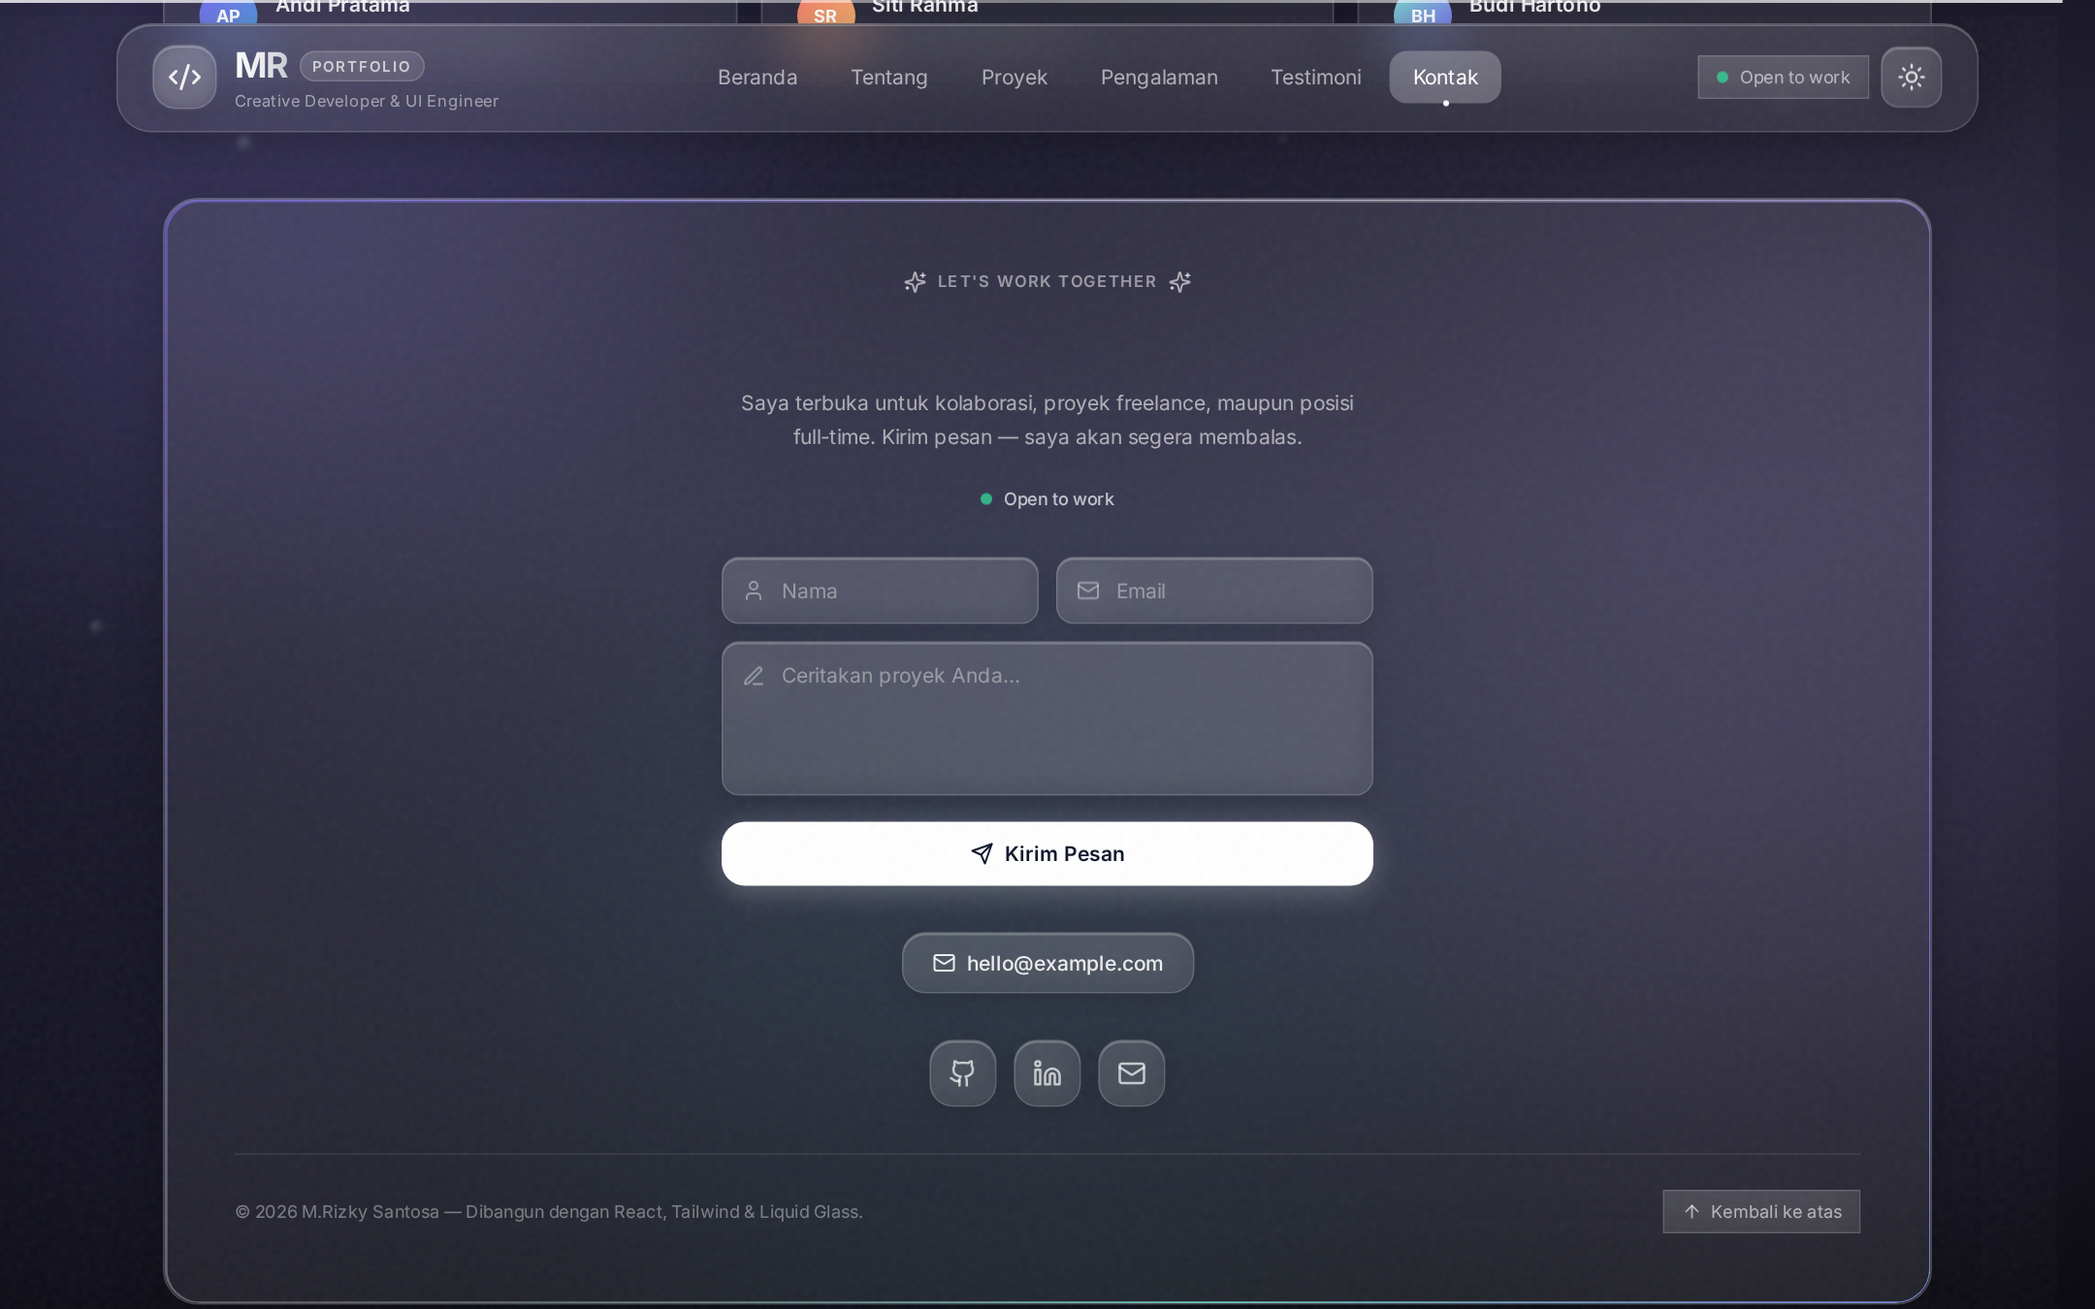
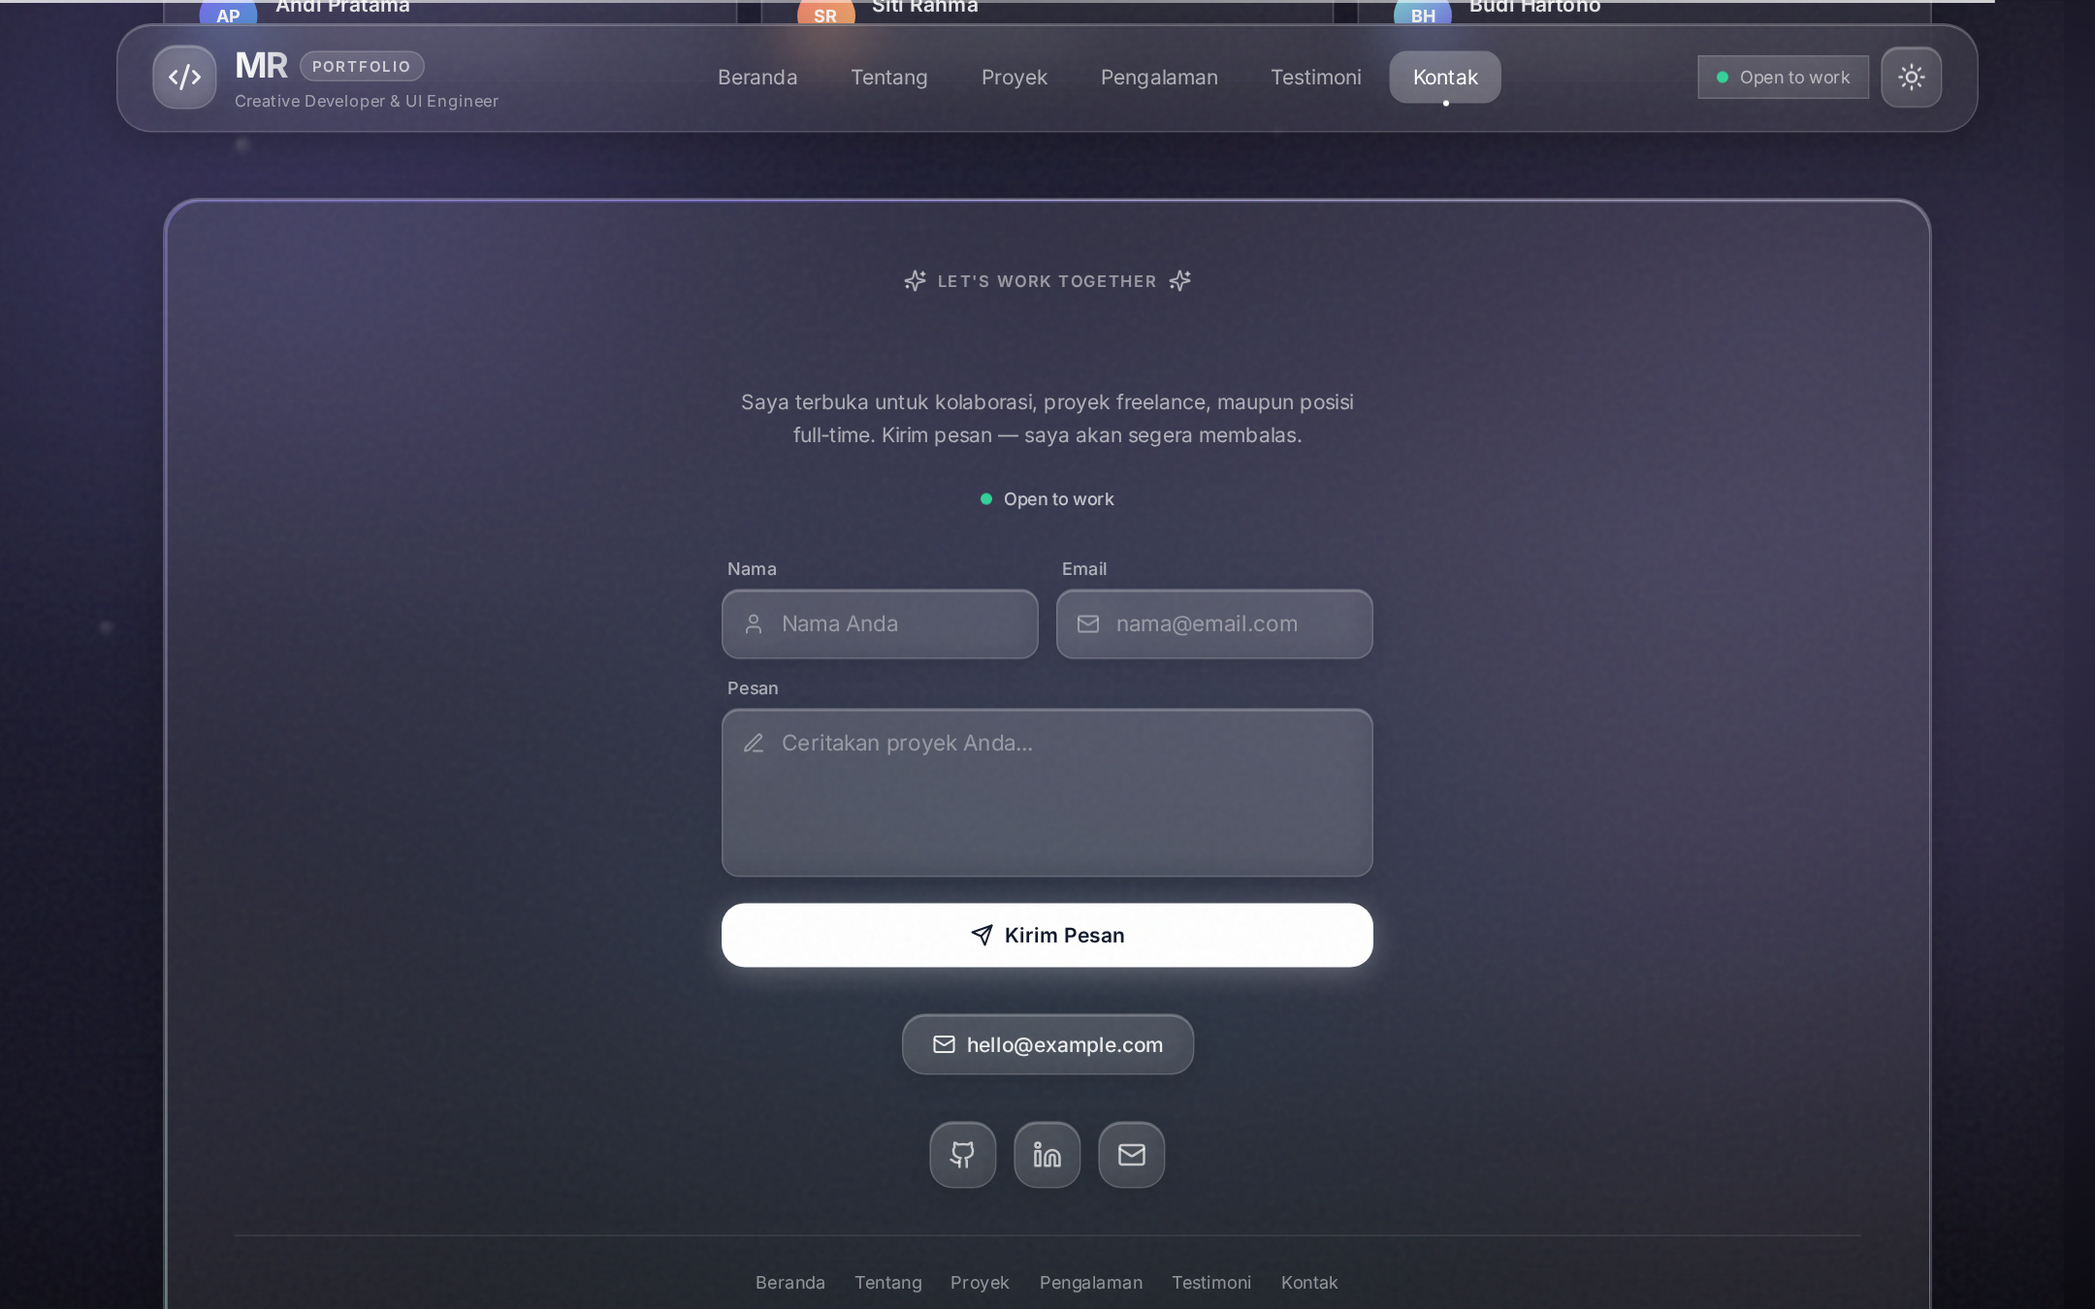
Perbarui komponen kontak, pengalaman, data portofolio, dan screenshot

diff --git a/src/components/ContactSection.jsx b/src/components/ContactSection.jsx
@@ -1,6 +1,6 @@
 import React, { useState } from 'react';
 import { motion } from 'framer-motion';
-import { Mail, Github, Linkedin, Send, ArrowUp, Sparkles, MessageCircle, User, PenLine } from 'lucide-react';
+import { Mail, Github, Linkedin, Send, ArrowUp, Sparkles, MessageCircle, User, PenLine, CheckCircle2, AlertCircle } from 'lucide-react';
 import { profile, socials } from '../data/portfolio.js';
 import { handleSpotlightMove } from '../utils/spotlight.js';
 import useMagnetic from '../utils/useMagnetic.js';
@@ -32,15 +32,32 @@ const socialIcons = {
   mail: Mail,
 };
 
+// Label footer → id section yang benar (bukan hasil lowercase label).
+const FOOTER_NAV_TARGETS = {
+  Beranda: 'home',
+  Tentang: 'about',
+  Proyek: 'projects',
+  Pengalaman: 'experience',
+  Testimoni: 'testimonials',
+  Kontak: 'contact',
+};
+
 export default function ContactSection() {
   const [form, setForm] = useState({ name: '', email: '', message: '' });
+  // Status submit: 'idle' | 'sent' | 'error' — pesan inline di bawah tombol.
+  const [status, setStatus] = useState('idle');
 
   // Form statis tanpa backend: kirim lewat mailto dengan subjek & isi pesan.
   const handleSubmit = (e) => {
     e.preventDefault();
-    const subject = encodeURIComponent(`Pesan dari ${form.name || 'pengunjung situs'}`);
-    const body = encodeURIComponent(`${form.message}\n\n— ${form.name}\n${form.email}`);
-    window.location.href = `mailto:${profile.email}?subject=${subject}&body=${body}`;
+    try {
+      const subject = encodeURIComponent(`Pesan dari ${form.name || 'pengunjung situs'}`);
+      const body = encodeURIComponent(`${form.message}\n\n— ${form.name}\n${form.email}`);
+      window.location.href = `mailto:${profile.email}?subject=${subject}&body=${body}`;
+      setStatus('sent');
+    } catch {
+      setStatus('error');
+    }
   };
 
   const set = (key) => (e) => setForm((f) => ({ ...f, [key]: e.target.value }));
@@ -80,42 +97,60 @@ export default function ContactSection() {
           <span className="text-xs font-medium text-white/70">{profile.availability}</span>
         </div>
 
-        {/* Contact form — nama, email, pesan */}
+        {/* Contact form — nama, email, pesan (label kecil di atas field agar aksesibel) */}
         <form onSubmit={handleSubmit} className="max-w-md mx-auto mb-8 text-left">
           <div className="grid grid-cols-1 sm:grid-cols-2 gap-3 mb-3">
-            <div className="relative">
-              <User className="absolute left-3.5 top-1/2 -translate-y-1/2 w-4 h-4 text-white/40 pointer-events-none" />
-              <input
-                type="text"
-                required
-                value={form.name}
-                onChange={set('name')}
-                placeholder="Nama"
-                className="w-full pl-10 pr-4 py-3 rounded-xl glass-button text-sm text-white placeholder-white/40 outline-none focus:border-white/50"
-              />
+            <div>
+              <label htmlFor="contact-name" className="block text-xs font-medium text-white/60 mb-1.5 ml-1">
+                Nama
+              </label>
+              <div className="relative">
+                <User className="absolute left-3.5 top-1/2 -translate-y-1/2 w-4 h-4 text-white/40 pointer-events-none" />
+                <input
+                  id="contact-name"
+                  type="text"
+                  required
+                  value={form.name}
+                  onChange={(e) => { set('name')(e); setStatus('idle'); }}
+                  placeholder="Nama Anda"
+                  className="w-full pl-10 pr-4 py-3 rounded-xl glass-button text-[15px] text-white placeholder-white/40 outline-none focus:border-white/50"
+                />
+              </div>
             </div>
-            <div className="relative">
-              <Mail className="absolute left-3.5 top-1/2 -translate-y-1/2 w-4 h-4 text-white/40 pointer-events-none" />
-              <input
-                type="email"
-                required
-                value={form.email}
-                onChange={set('email')}
-                placeholder="Email"
-                className="w-full pl-10 pr-4 py-3 rounded-xl glass-button text-sm text-white placeholder-white/40 outline-none focus:border-white/50"
-              />
+            <div>
+              <label htmlFor="contact-email" className="block text-xs font-medium text-white/60 mb-1.5 ml-1">
+                Email
+              </label>
+              <div className="relative">
+                <Mail className="absolute left-3.5 top-1/2 -translate-y-1/2 w-4 h-4 text-white/40 pointer-events-none" />
+                <input
+                  id="contact-email"
+                  type="email"
+                  required
+                  value={form.email}
+                  onChange={(e) => { set('email')(e); setStatus('idle'); }}
+                  placeholder="nama@email.com"
+                  className="w-full pl-10 pr-4 py-3 rounded-xl glass-button text-[15px] text-white placeholder-white/40 outline-none focus:border-white/50"
+                />
+              </div>
             </div>
           </div>
-          <div className="relative mb-3">
-            <PenLine className="absolute left-3.5 top-4 w-4 h-4 text-white/40 pointer-events-none" />
-            <textarea
-              required
-              rows={4}
-              value={form.message}
-              onChange={set('message')}
-              placeholder="Ceritakan proyek Anda..."
-              className="w-full pl-10 pr-4 py-3 rounded-xl glass-button text-sm text-white placeholder-white/40 outline-none focus:border-white/50 resize-none"
-            />
+          <div className="mb-3">
+            <label htmlFor="contact-message" className="block text-xs font-medium text-white/60 mb-1.5 ml-1">
+              Pesan
+            </label>
+            <div className="relative">
+              <PenLine className="absolute left-3.5 top-4 w-4 h-4 text-white/40 pointer-events-none" />
+              <textarea
+                id="contact-message"
+                required
+                rows={4}
+                value={form.message}
+                onChange={(e) => { set('message')(e); setStatus('idle'); }}
+                placeholder="Ceritakan proyek Anda..."
+                className="w-full pl-10 pr-4 py-3 rounded-xl glass-button text-[15px] text-white placeholder-white/40 outline-none focus:border-white/50 resize-none"
+              />
+            </div>
           </div>
           <button
             type="submit"
@@ -124,6 +159,21 @@ export default function ContactSection() {
             <Send className="w-4 h-4" />
             Kirim Pesan
           </button>
+
+          {/* State sukses/error setelah submit */}
+          {status === 'sent' && (
+            <p role="status" className="mt-3 flex items-center justify-center gap-2 text-[15px] text-emerald-300">
+              <CheckCircle2 className="w-4 h-4" />
+              Aplikasi email Anda terbuka — terima kasih sudah menghubungi!
+            </p>
+          )}
+          {status === 'error' && (
+            <p role="alert" className="mt-3 flex items-center justify-center gap-2 text-[15px] text-rose-300">
+              <AlertCircle className="w-4 h-4" />
+              Gagal membuka aplikasi email. Kirim langsung ke{' '}
+              <a href={`mailto:${profile.email}`} className="underline hover:text-white">{profile.email}</a>.
+            </p>
+          )}
         </form>
 
         {/* Kontak langsung — email & WhatsApp */}
@@ -167,17 +217,48 @@ export default function ContactSection() {
           })}
         </div>
 
-        <div className="mt-8 pt-6 border-t border-white/10 flex flex-col sm:flex-row items-center justify-between gap-3 text-xs text-white/40">
-          <p>
-            © {new Date().getFullYear()} {profile.name} — Dibangun dengan React, Tailwind & Liquid Glass.
-          </p>
-          <a
-            href="#home"
-            className="flex items-center gap-1.5 glass-pill px-3 py-1.5 text-white/60 hover:text-white transition-colors"
-          >
-            <ArrowUp className="w-3.5 h-3.5" />
-            Kembali ke atas
-          </a>
+        <div className="mt-8 pt-6 border-t border-white/10">
+          {/* Navigasi cepat + ikon sosial agar footer tidak terasa "putus" */}
+          <nav aria-label="Navigasi footer" className="flex flex-wrap items-center justify-center gap-x-5 gap-y-2 mb-4">
+            {['Beranda', 'Tentang', 'Proyek', 'Pengalaman', 'Testimoni', 'Kontak'].map((label) => (
+              <a
+                key={label}
+                href={`#${FOOTER_NAV_TARGETS[label]}`}
+                className="text-xs text-white/50 hover:text-white transition-colors"
+              >
+                {label}
+              </a>
+            ))}
+          </nav>
+          <div className="flex items-center justify-center gap-3 mb-5">
+            {socials.map((s) => {
+              const Icon = socialIcons[s.icon] || Github;
+              return (
+                <a
+                  key={`footer-${s.label}`}
+                  href={s.href}
+                  target="_blank"
+                  rel="noopener noreferrer"
+                  title={s.label}
+                  className="p-2 rounded-xl glass-button text-white/60 hover:text-white"
+                >
+                  <Icon className="w-4 h-4" />
+                </a>
+              );
+            })}
+          </div>
+          <div className="flex flex-col sm:flex-row items-center justify-between gap-3 text-xs text-white/40">
+            <p>
+              © {new Date().getFullYear()} {profile.name} — Dibangun dengan React, Tailwind & Liquid Glass.
+            </p>
+            <a
+              href="#home"
+              className="flex items-center gap-1.5 glass-pill px-3 py-1.5 text-white/60 hover:text-white transition-colors"
+            >
+              <ArrowUp className="w-3.5 h-3.5" />
+              Kembali ke atas
+            </a>
+          </div>
         </div>
       </motion.div>
     </section>

diff --git a/src/data/portfolio.js b/src/data/portfolio.js
@@ -165,29 +165,41 @@ export const projects = [
 ];
 
 // Pengalaman kerja — tampil di section timeline. Tambah/hapus entri sesuai kebutuhan.
+// highlights: 2–3 poin singkat (lebih mudah dibaca daripada satu paragraf panjang).
+// description opsional; logo opsional (mis. '/companies/acme.png') — kosong untuk inisial kotak.
 export const experience = [
   {
     role: 'Frontend Engineer',
     company: 'PT Digital Kreatif Nusantara',
     period: '2024 — Sekarang',
-    description:
-      'Membangun dan memelihara aplikasi web untuk klien enterprise: sistem desain internal, optimasi performa, dan kolaborasi erat dengan tim produk & desain.',
+    logo: '',
+    highlights: [
+      'Membangun sistem desain internal untuk aplikasi web klien enterprise.',
+      'Optimasi performa: skor Lighthouse naik ke 95+ di halaman utama.',
+      'Kolaborasi erat dengan tim produk & desain dari riset hingga rilis.',
+    ],
     tech: ['React', 'TypeScript', 'Tailwind CSS'],
   },
   {
     role: 'UI Engineer',
     company: 'Studio Desain Inovasi',
     period: '2022 — 2024',
-    description:
-      'Menerjemahkan desain Figma menjadi komponen React yang konsisten dan reusable, plus membangun prototipe interaktif untuk pitch klien.',
+    logo: '',
+    highlights: [
+      'Menerjemahkan desain Figma menjadi komponen React yang konsisten dan reusable.',
+      'Membangun prototipe interaktif untuk presentasi pitch klien.',
+    ],
     tech: ['React', 'Figma', 'Framer Motion'],
   },
   {
     role: 'Frontend Developer',
     company: 'Freelance',
     period: '2021 — 2022',
-    description:
-      'Mengerjakan landing page, dashboard, dan toko online untuk berbagai klien skala kecil-menengah, dari briefing hingga deployment.',
+    logo: '',
+    highlights: [
+      'Mengerjakan landing page, dashboard, dan toko online untuk klien UMKM.',
+      'Menangani proyek penuh: dari briefing, development, hingga deployment.',
+    ],
     tech: ['JavaScript', 'Vue', 'REST API'],
   },
 ];
@@ -197,7 +209,7 @@ export const experience = [
 export const testimonials = [
   {
     quote:
-      'Kerja sama sangat lancar — hasil akhirnya jauh melampaui ekspektasi. Detail visual dan kecepatan delivery-nya luar biasa.',
+      'Detail visual dan kecepatan delivery-nya luar biasa. Hasilnya jauh melampaui ekspektasi.',
     name: 'Andi Pratama',
     role: 'Product Manager, Startup Fintech',
     initials: 'AP',
@@ -206,7 +218,7 @@ export const testimonials = [
   },
   {
     quote:
-      'Selalu komunikatif dan proaktif. Dari mockup sampai produksi, semua dikerjakan dengan standar kualitas yang tinggi.',
+      'Selalu komunikatif dan proaktif. Dari mockup sampai produksi, hasilnya berkualitas tinggi.',
     name: 'Siti Rahma',
     role: 'Founder, Agency Kreatif',
     initials: 'SR',
@@ -230,16 +242,22 @@ export const education = [
     degree: 'S1 Informatika',
     school: 'Universitas Teknologi Nusantara',
     period: '2017 — 2021',
-    description:
-      'Fokus pada pengembangan web dan interaksi manusia-komputer. Aktif di organisasi mahasiswa dan beberapa proyek riset kecil.',
+    logo: '',
+    highlights: [
+      'Fokus pada pengembangan web dan interaksi manusia-komputer.',
+      'Aktif di organisasi mahasiswa dan beberapa proyek riset kecil.',
+    ],
     tech: ['Struktur Data', 'Pemrograman Web', 'UI/UX Design'],
   },
   {
     degree: 'Bootcamp Frontend Engineering',
     school: 'Platform Kursus Online',
     period: '2021',
-    description:
-      'Kurikulum intensif 16 minggu: JavaScript modern, React, pengujian, dan deployment dengan studi kasus nyata.',
+    logo: '',
+    highlights: [
+      'Kurikulum intensif 16 minggu dengan studi kasus nyata.',
+      'Mencakup JavaScript modern, React, pengujian, dan deployment.',
+    ],
     tech: ['React', 'Testing', 'CI/CD'],
   },
 ];

diff --git a/src/components/Experience.jsx b/src/components/Experience.jsx
@@ -87,8 +87,33 @@ export default function Experience() {
                     {item.period}
                   </span>
                 </div>
-                <p className="text-sm font-medium text-white/70 mb-2">{org}</p>
-                <p className="text-sm text-white/60 leading-relaxed mb-3">{item.description}</p>
+                {/* Baris organisasi + slot logo perusahaan kecil (fallback: inisial) */}
+                <div className="flex items-center gap-2.5 mb-2.5">
+                  <span
+                    className="w-7 h-7 rounded-lg bg-gradient-to-br from-[#7c6cf0]/40 to-[#4f9fd8]/40 border border-white/15 flex items-center justify-center text-[10px] font-bold text-white/80 flex-shrink-0 overflow-hidden"
+                    aria-hidden="true"
+                  >
+                    {item.logo ? (
+                      <img src={item.logo} alt="" className="w-full h-full object-cover" loading="lazy" />
+                    ) : (
+                      org.charAt(0)
+                    )}
+                  </span>
+                  <p className="text-[15px] font-medium text-white/70">{org}</p>
+                </div>
+                {/* Poin singkat (highlights), fallback ke paragraf description lama */}
+                {item.highlights ? (
+                  <ul className="space-y-1.5 mb-3">
+                    {item.highlights.map((h) => (
+                      <li key={h} className="text-[15px] text-white/65 leading-relaxed flex gap-2">
+                        <span className="mt-[0.55em] w-1 h-1 rounded-full bg-white/40 flex-shrink-0" />
+                        <span>{h}</span>
+                      </li>
+                    ))}
+                  </ul>
+                ) : (
+                  <p className="text-[15px] text-white/60 leading-relaxed mb-3">{item.description}</p>
+                )}
                 <div className="flex flex-wrap gap-1.5">
                   {item.tech.map((t) => (
                     <span

diff --git a/src/components/Testimonials.jsx b/src/components/Testimonials.jsx
@@ -53,7 +53,7 @@ export default function Testimonials() {
                 ))}
               </div>
             ) : null}
-            <p className="text-sm text-white/70 leading-relaxed mb-5 flex-1">“{t.quote}”</p>
+            <p className="text-[15px] text-white/70 leading-relaxed mb-5 flex-1">“{t.quote}”</p>
             <div className="flex items-center gap-3 pt-4 border-t border-white/10">
               <div
                 className="w-10 h-10 rounded-full flex items-center justify-center text-xs font-bold text-white flex-shrink-0"

diff --git a/README.md b/README.md
@@ -204,13 +204,16 @@ Dikelompokkan per kategori: `category` + `items` (array). Muncul di marquee & ka
 
 ### 💼 `experience` & 🎓 `education` — Timeline
 
-Tiap item pengalaman: `role`, `company`, `period`, `description`, `tech`.
-Tiap item pendidikan: `degree`, `school`, `period`, `description`, `tech`.
+Tiap item pengalaman: `role`, `company`, `period`, `highlights`, `tech`.
+Tiap item pendidikan: `degree`, `school`, `period`, `highlights`, `tech`.
+`highlights` adalah array 2–3 poin singkat (jauh lebih enak dibaca daripada satu paragraf panjang; `description` lama tetap didukung sebagai fallback).
+`logo` opsional — isi path/URL logo perusahaan (mis. `'/companies/acme.png'`); kosongkan untuk memakai kotak inisial otomatis.
 Kedua array tampil di section yang sama lewat tab **Pengalaman / Pendidikan**.
 
 ### 💬 `testimonials` — Testimoni
 
 Tiap item: `quote`, `name`, `role`, `initials`, `gradient`, `rating` (1–5).
+Usahakan `quote` maksimal 25–30 kata agar kartu tetap ringkas.
 Field `rating` **opsional** — hapus/kosongkan jika tidak punya datanya, bintang tidak akan tampil.
 
 ### 🎨 `defaultPalette` — Warna Aksen
